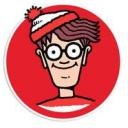
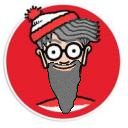
Changed Waldorfs look

Changed region(s): [[0.3438, 0.4688, 0.6562, 0.9062], [0.2812, 0.125, 0.7812, 0.4062]]

diff --git a/src/css/style.css b/src/css/style.css
@@ -3,7 +3,7 @@
     width: 20px;
     height: 28px;
     z-index: 2147483647;
-    background-image: url('chrome-extension://__MSG_@@extension_id__/images/waldo.png');
+    background-image: url('chrome-extension://__MSG_@@extension_id__/images/waldorf.png');
 }
 
 #popup {
